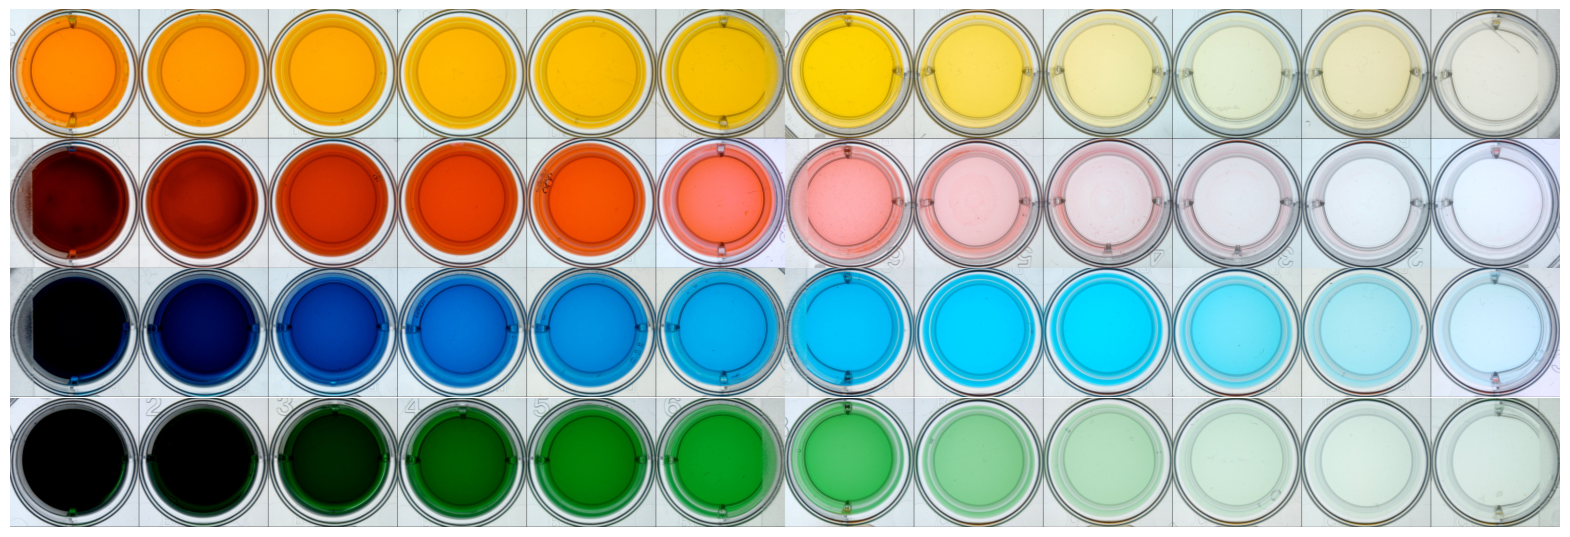
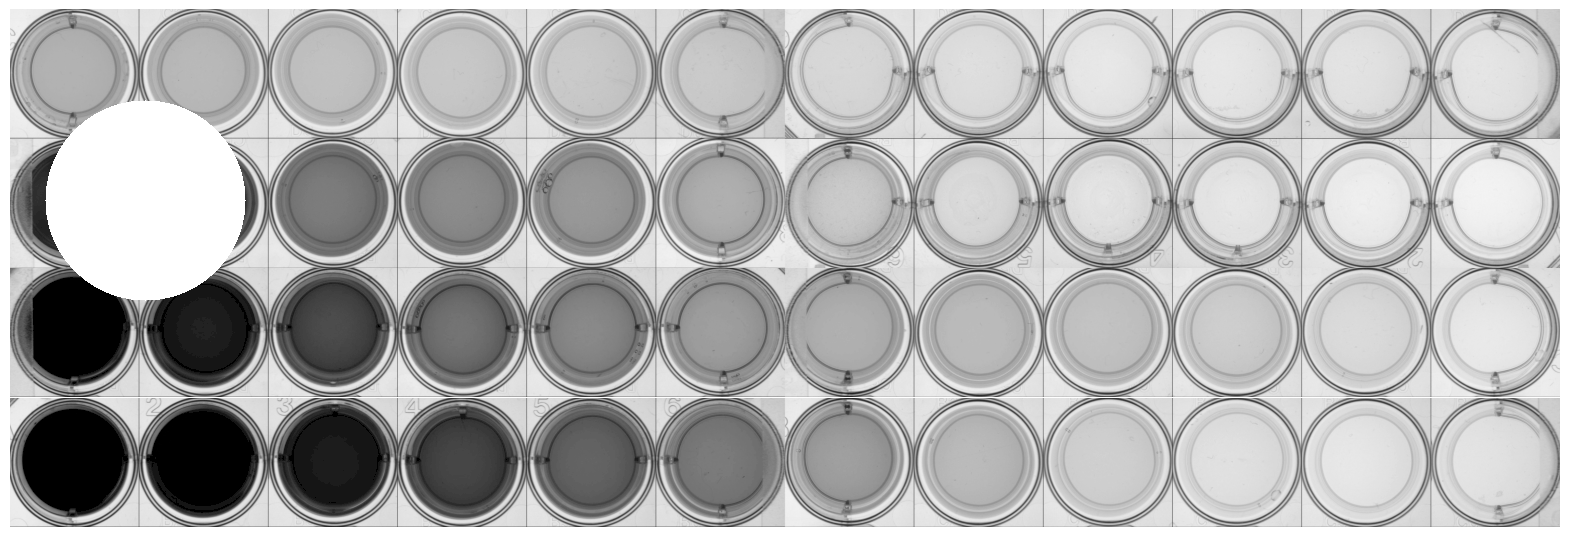
update

diff --git a/modify-image.py b/modify-image.py
@@ -1,0 +1,12 @@
+import cv2
+
+plate =  cv2.imread("colorplate.png", cv2.IMREAD_GRAYSCALE)
+
+cv2.circle(plate, (145, 200), 100, 255, -1)
+
+cv2.imwrite("colorplate.png", plate) 
+
+cv2.imshow(f'colorplate.png', plate)
+
+cv2.waitKey() 
+cv2.destroyAllWindows() 
